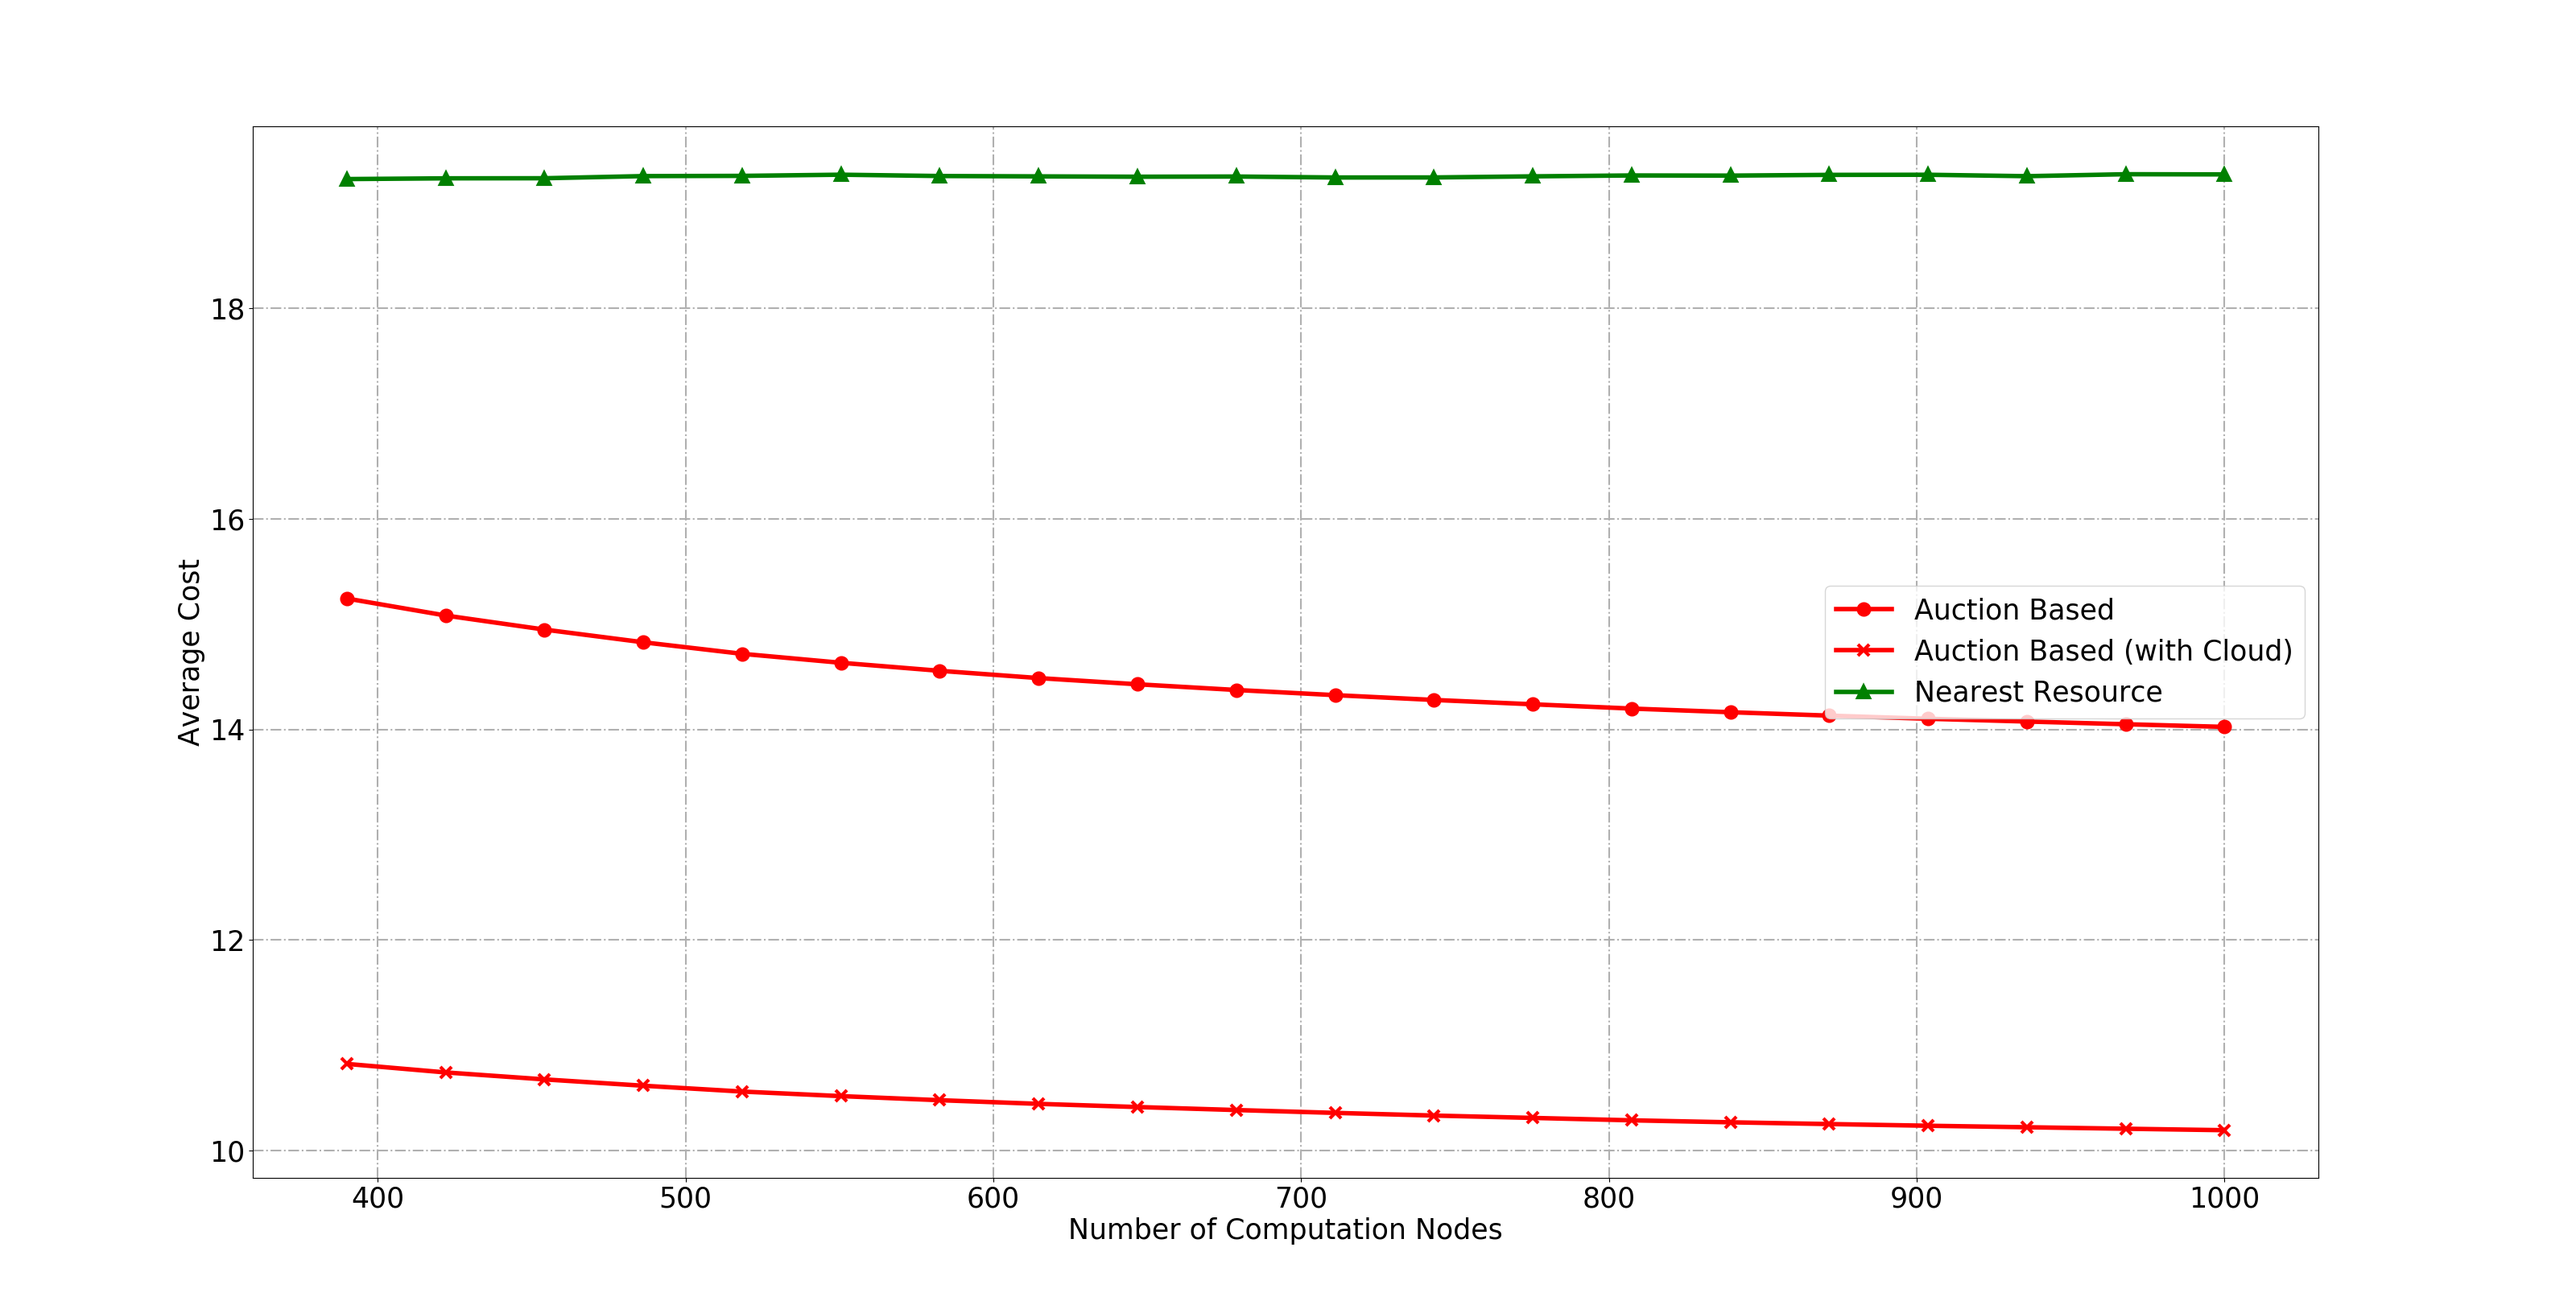
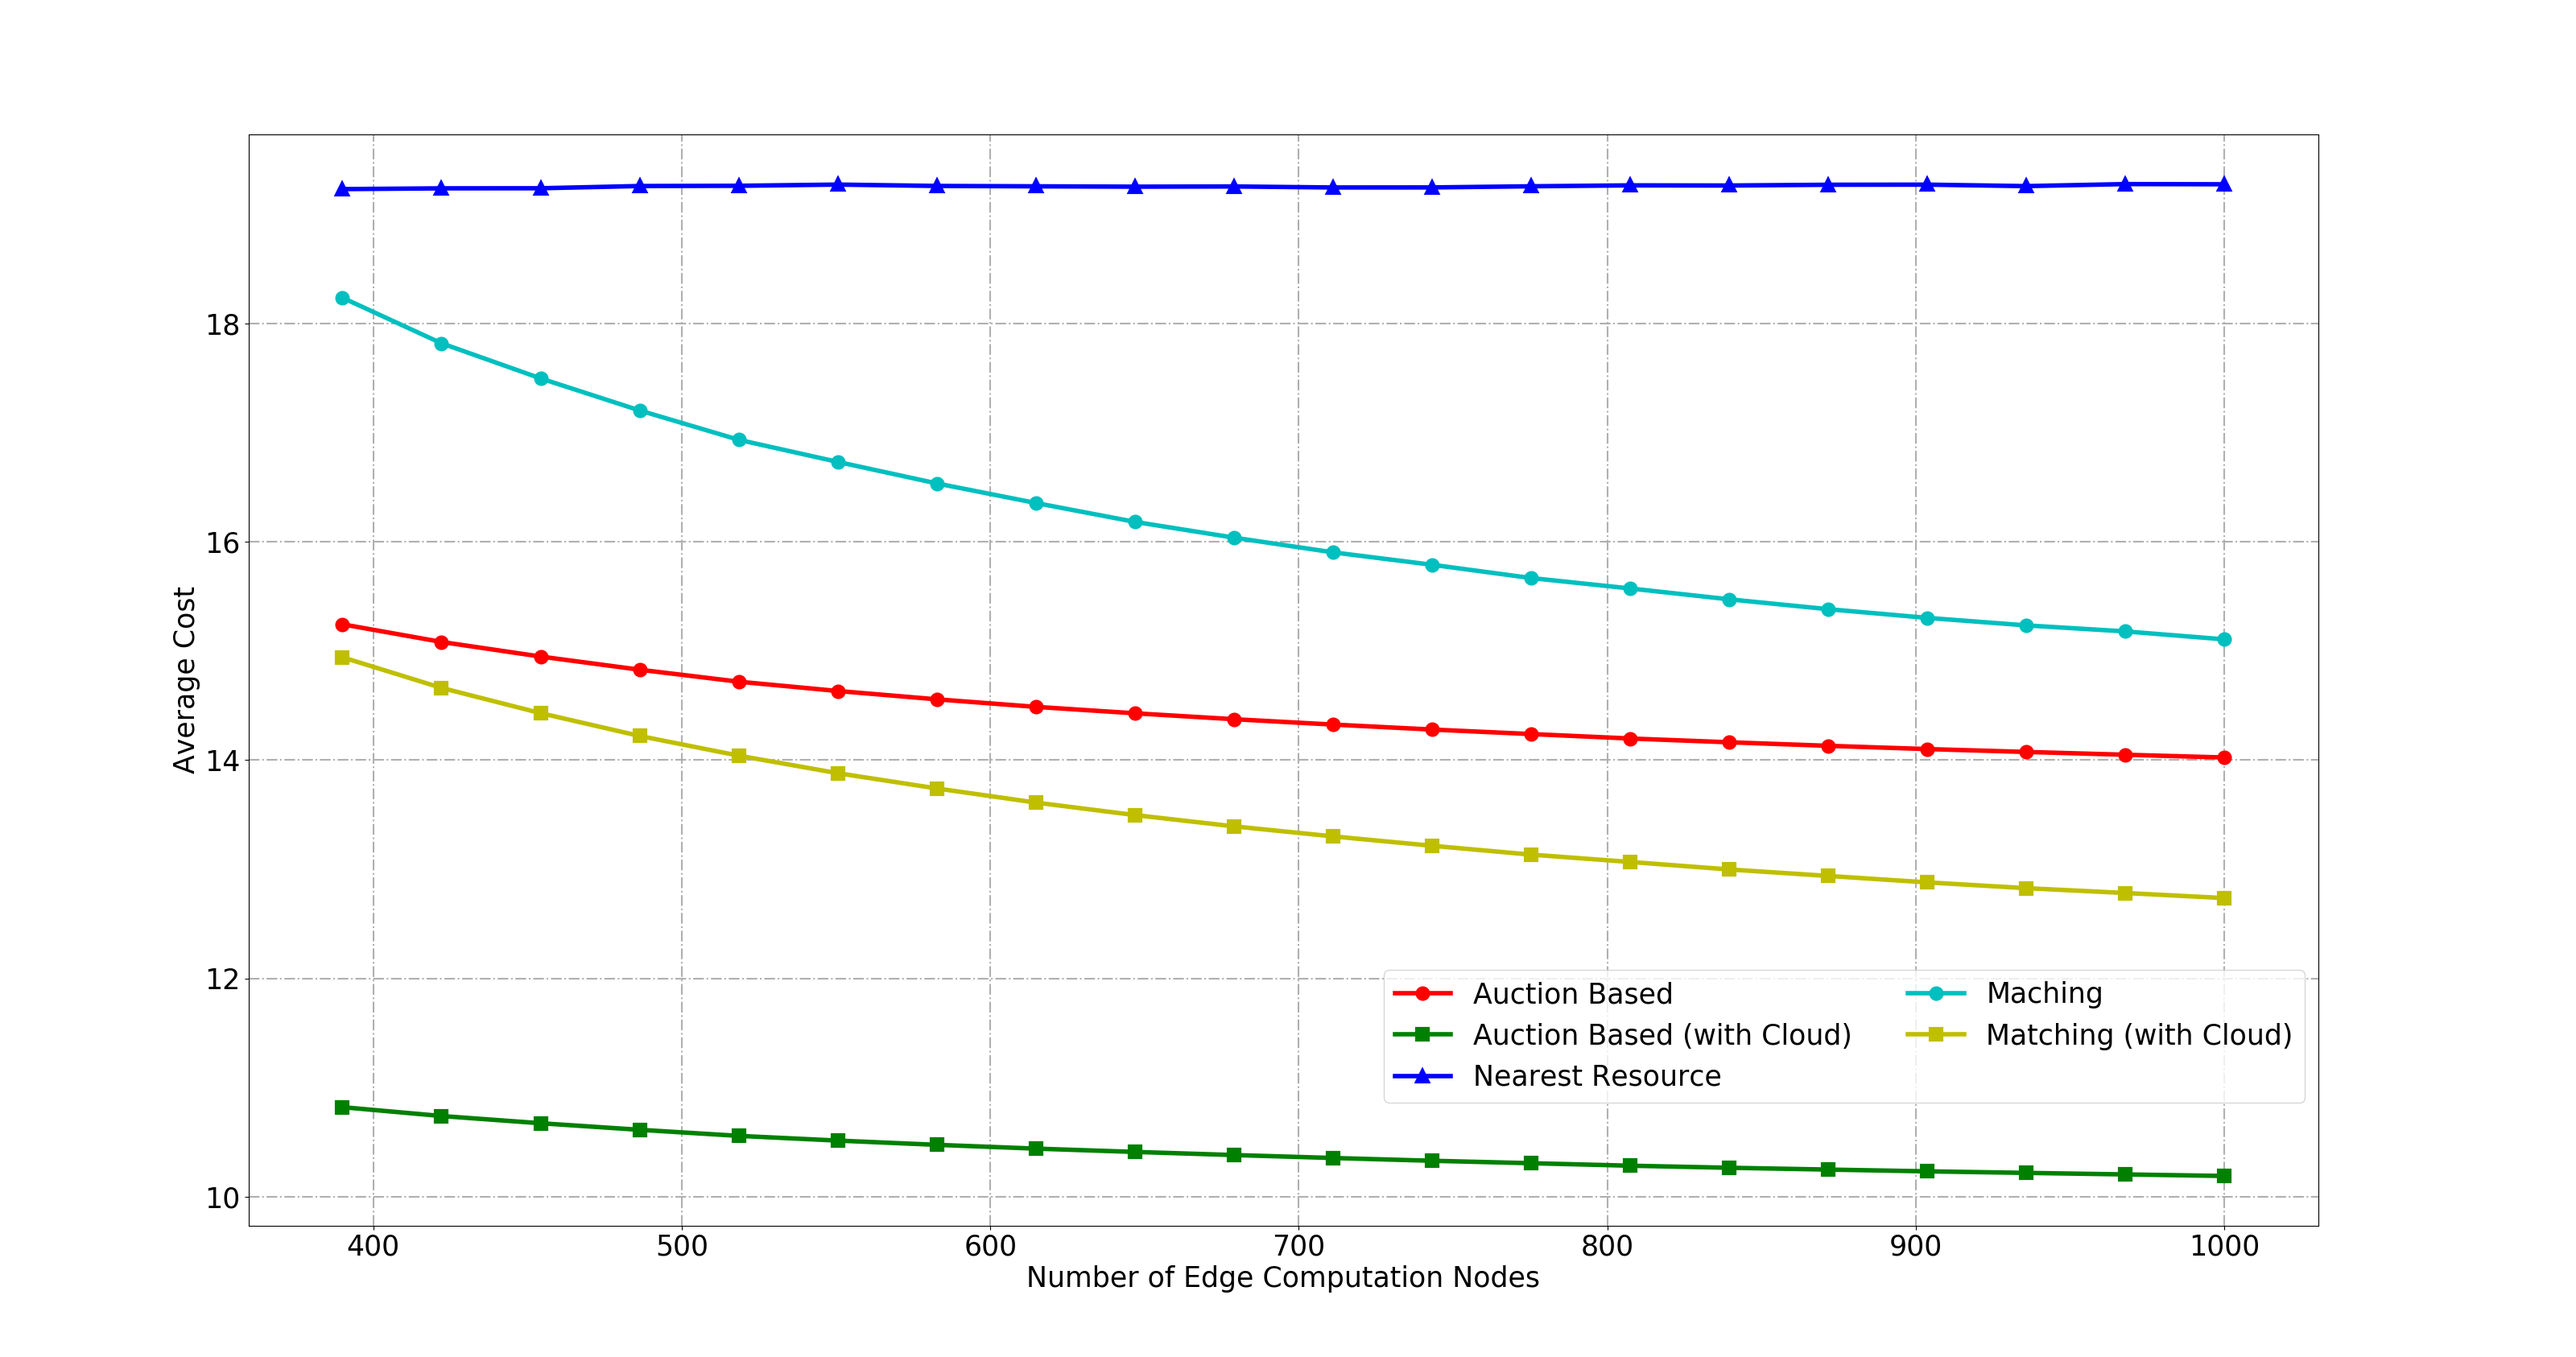
add comparison to chapter 3

diff --git a/chapters/one_to_one_allocation.tex b/chapters/one_to_one_allocation.tex
@@ -421,9 +421,16 @@
     \end{figure}
 
     \cref{fig:ono_to_one:sim1} نتیجه شبیه سازی را برای سناریوهای بیان شده نشان میدهد.
-    برای مقایسه، نتیجه حاصل از اختصاص نزدیکترین منبع پردازشی هم در شکل آورده شده است.
+    برای مقایسه، نتیجه حاصل از اختصاص نزدیکترین منبع پردازشی و تخصیص منابع مبتنی بر تئوری تطبیق \cite{gale1962college} در شکل آورده شده است.
     در اختصاص نزدیکترین منبع پردازشی، هر سرویس از نزدیکترین منبع پردازشی به خود استفاده میکند.
-    همانطور که از شکل مشخص است، تخصیص منابع مبتنی بر مزایده نتیجه بهتری نسبت به اختصاص نزدیکترین منبع دارد.
+    در اختصاص منابع پردازشی مبتنی بر تئوری تطبیق، منابع پردازشی لیست سرویسها را به ترتیب اولویت نگه میدارند.
+    همچنین، سرویسها هم لیست منابع پردازشی مورد علاقه خود را به ترتیب اولویت نگه میدارند.
+    سپس سرویسها به بهترین منبع پردازشی لیست خود درخواست میدهند.
+    منابع پردازشی پس از دریافت درخواست بهترین را انتخاب میکنند و بقیه را رد میکنند.
+    با رد شدن درخواست سرویس، سرویس مربوطه منبع پردازشی که درخواست را رد کرده از لیست خود حذف میکند و به منبع پردازشی بعدی درخواست میدهد.
+    در \cite{gale1962college} همگرایی این الگوریتم ثابت شدهاست و نشان داده شدهاست که نتیجه، تطبیق پایداری است که مجموع سود سرویسها را بیشینه میکند.
+    این الگوریتم مانند الگوریتم مبتنی بر مزایده دارای پیچیدگی $O(N^2)$ می باشد \cite{mcvitie1970stable}.
+    همانطور که از شکل مشخص است، تخصیص منابع مبتنی بر مزایده نتیجه بهتری نسبت به اختصاص نزدیکترین منبع و اختصاص منابع مبتنی بر تئوری تطبیق دارد.
     زمانی که الگوریتم تخصیصی منابع پردازشی مبتنی بر حراج پایان مییابد، $U$ حداکثر به اندازهی $N\epsilon$ با مقدار بیشینه فاصله دارد.
     بنابراین هنگامی که الگوریتم پایان مییابد میانگین هزینه سرویسها حداکثر به اندازه $\epsilon$ با مقدار کمینه فاصله دارد.
     در نتیجه برای مقادیر کوچک $\epsilon$ میانگین هزینهها مقداری نزدیک به بهینه را خواهد داشت.
@@ -466,6 +473,8 @@
     \end{figure}
 
     \cref{fig:ono_to_one:sim4} تاثیر تعداد سرویسها بر روی میانگین هزینه سرویسها را وقتی تعداد منابع پردازشی ثابت است،نشان میدهد.
+    برای مقایسه نتایج حاصل از الگوریتم تخصیص منابع مبتنی بر تئوری تطبیق نیز آوردهشده است.
+    همانطور که از شکل مشخص است، الگوریتم تخصیص منابع مبتنی بر مزایده به نتایج بهتری میرسد چرا که نتیجه آن حداکثر در فاصله $\epsilon$ مقدار بهینه قرار دارد.
     واضح است که با ثابت بودن منابع پردازشی، افزایش تعداد سرویسها باعث افزایش رقابت برای یافتن بهترین منبع پردازشی میشود.
     در نتیجه احتمال دریافت بهترین منبع توسط منابع پردازشی کم میشود.
 
